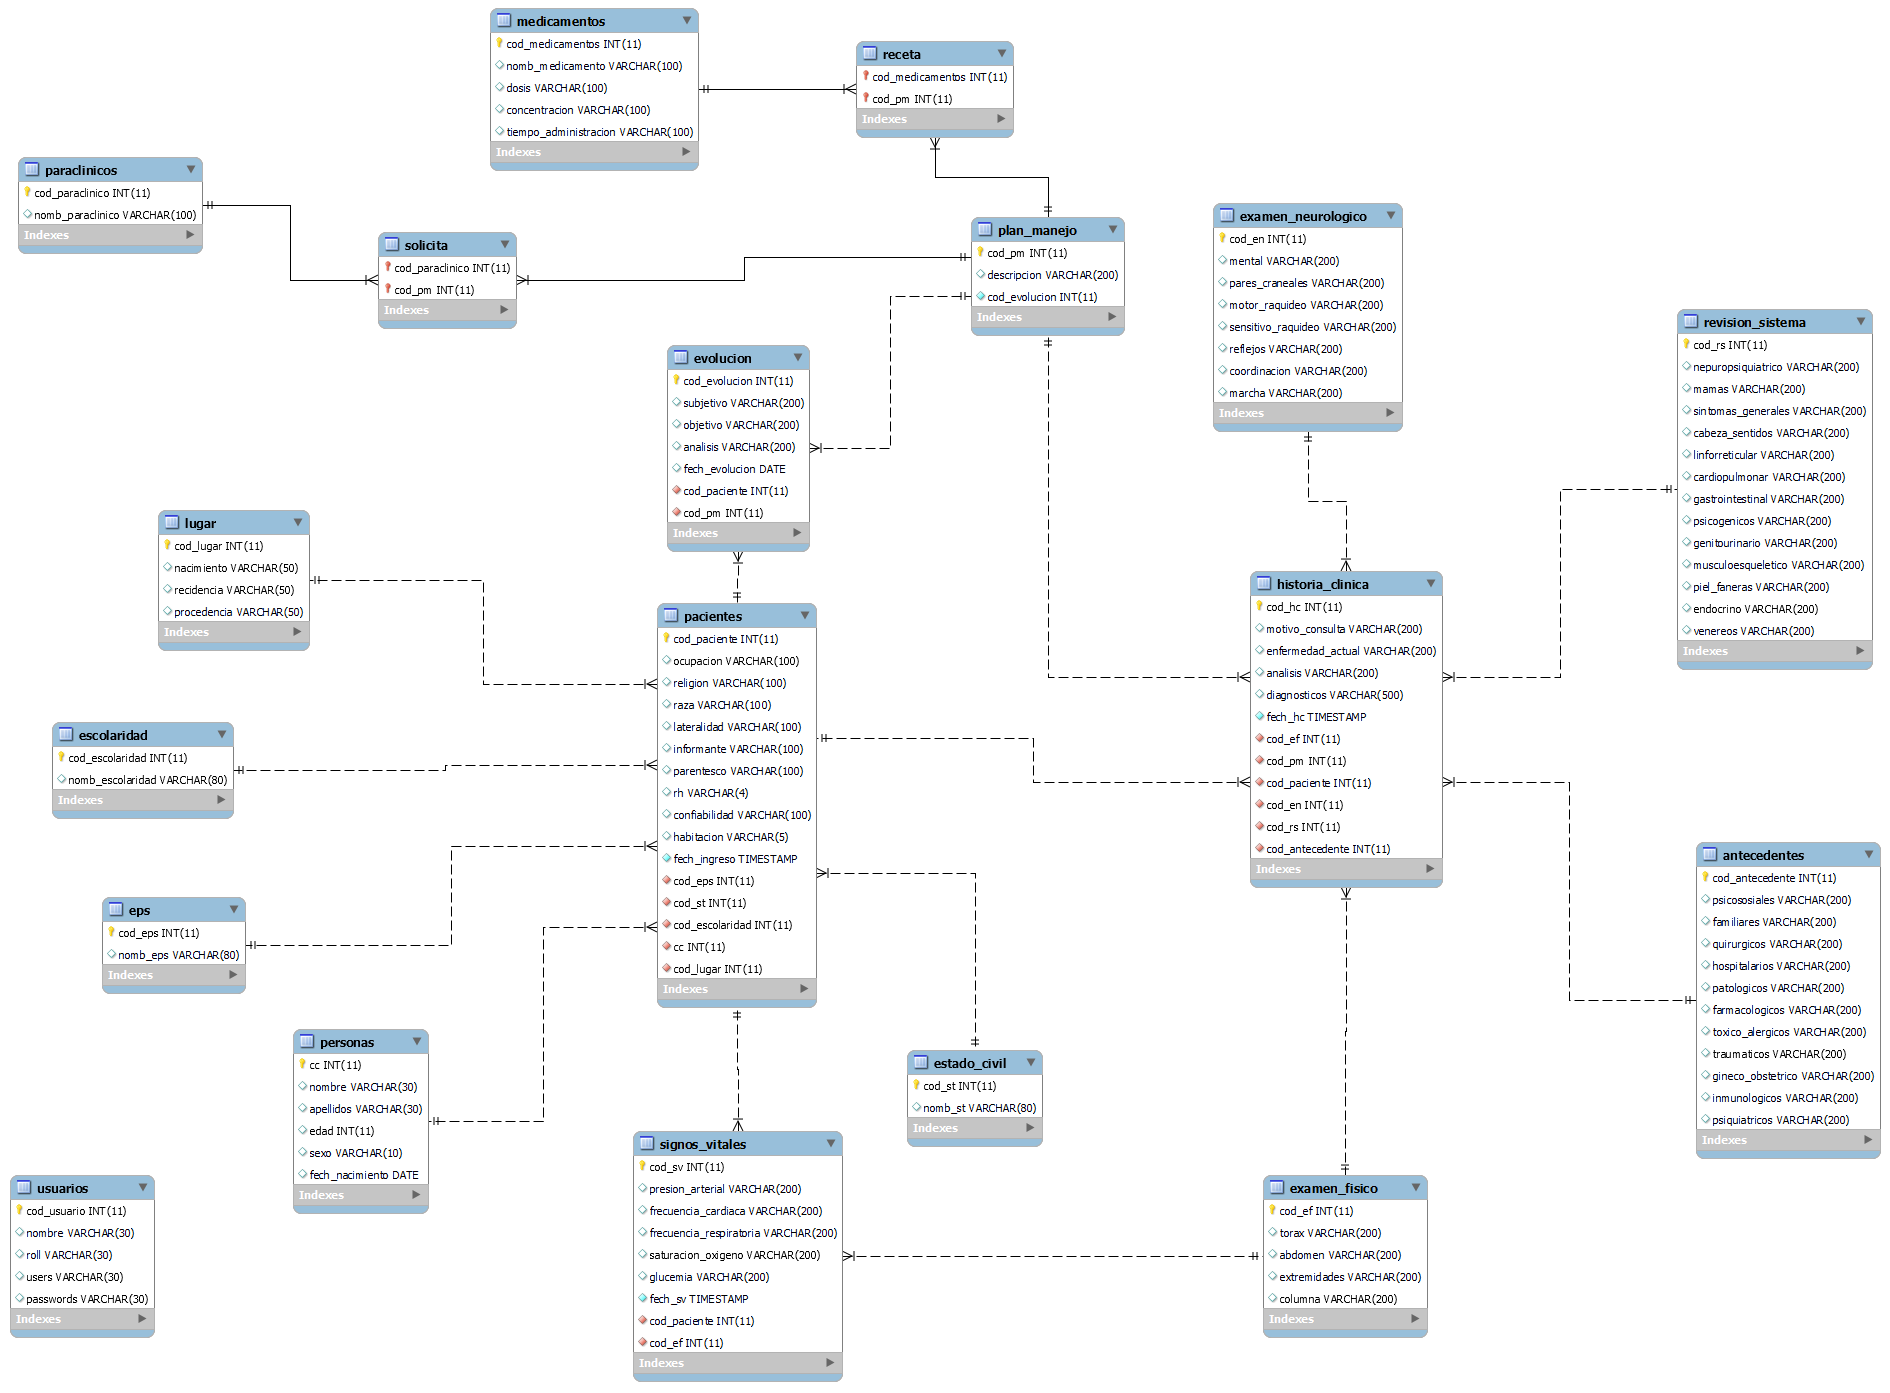
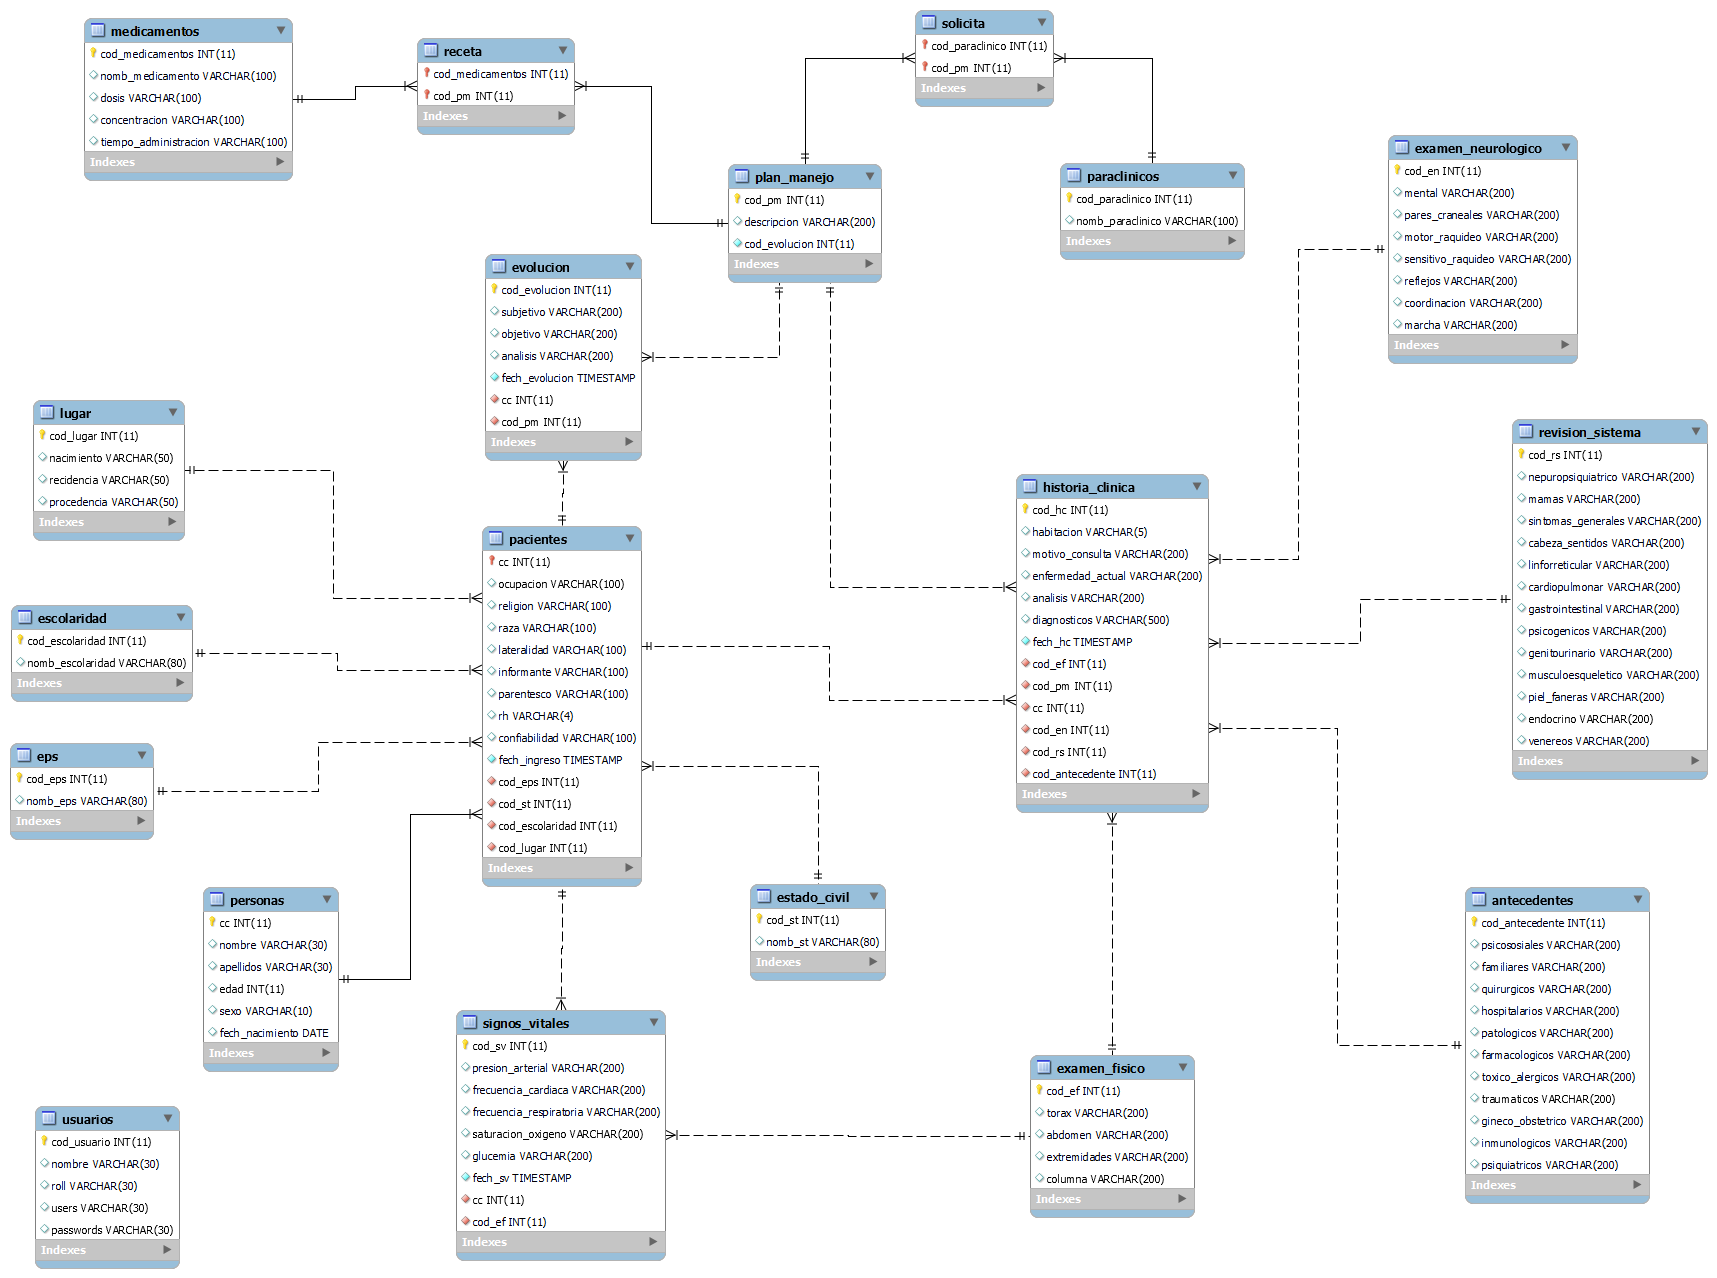
Model Update

diff --git a/Backend/src/main/java/com/medical/soft/persistence/entity/Paciente.java b/Backend/src/main/java/com/medical/soft/persistence/entity/Paciente.java
@@ -10,9 +10,7 @@ import java.util.List;
 public class Paciente {
 
     @Id
-    @GeneratedValue(strategy = GenerationType.IDENTITY)
-    @Column(name = "cod_paciente")
-    private Integer codPaciente;
+    private Integer cc;
 
     // Foreign keys
     @Column(name = "cod_eps")
@@ -21,7 +19,6 @@ public class Paciente {
     private Integer codST;
     @Column(name = "cod_escolaridad")
     private Integer codEscolaridad;
-    private Integer cc;
     @Column(name = "cod_lugar")
     private Integer codLugar;
 
@@ -34,7 +31,6 @@ public class Paciente {
     private String parentesco;
     private String rh;
     private String confiabilidad;
-    private String habitacion;
 
     // LocalDateTime is type data for date and hours
     @Column(name = "fech_ingreso")
@@ -49,7 +45,7 @@ public class Paciente {
     @JoinColumn(name = "cod_escolaridad", insertable = false, updatable = false)
     private Escolaridad escolaridad;
 
-    @ManyToOne
+    @OneToOne
     @JoinColumn(name = "cc", insertable = false, updatable = false)
     private Persona persona;
 
@@ -151,14 +147,6 @@ public class Paciente {
         this.historiasClinicas = historiasClinicas;
     }
 
-    public Integer getCodPaciente() {
-        return codPaciente;
-    }
-
-    public void setCodPaciente(Integer codPaciente) {
-        this.codPaciente = codPaciente;
-    }
-
     public Integer getCodST() {
         return codST;
     }
@@ -247,13 +235,6 @@ public class Paciente {
         this.confiabilidad = confiabilidad;
     }
 
-    public String getHabitacion() {
-        return habitacion;
-    }
-
-    public void setHabitacion(String habitacion) {
-        this.habitacion = habitacion;
-    }
 
     public LocalDateTime getFechIngreso() {
         return fechIngreso;

diff --git a/Backend/src/main/java/com/medical/soft/persistence/entity/HistoriaClinica.java b/Backend/src/main/java/com/medical/soft/persistence/entity/HistoriaClinica.java
@@ -17,8 +17,7 @@ public class HistoriaClinica {
     private Integer codEF;
     @Column(name = "cod_pm")
     private Integer codPM;
-    @Column(name = "cod_paciente")
-    private Integer codPaciente;
+    private Integer cc;
     @Column(name = "cod_en")
     private Integer codEN;
     @Column(name = "cod_rs")
@@ -27,6 +26,7 @@ public class HistoriaClinica {
     private Integer codAntecedente;
 
     // Attributes
+    private String habitacion;
     @Column(name = "motivo_consulta")
     private String motivoConsulta;
     @Column(name = "enfermedad_actual")
@@ -42,7 +42,7 @@ public class HistoriaClinica {
     private PlanManejo planManejo;
 
     @ManyToOne
-    @JoinColumn(name = "cod_paciente", insertable = false, updatable = false)
+    @JoinColumn(name = "cc", insertable = false, updatable = false)
     private Paciente paciente;
 
     @ManyToOne
@@ -62,6 +62,22 @@ public class HistoriaClinica {
     private ExamenNeurologico examenNeurologico;
 
     // Methods
+    public Integer getCc() {
+        return cc;
+    }
+
+    public void setCc(Integer cc) {
+        this.cc = cc;
+    }
+
+    public String getHabitacion() {
+        return habitacion;
+    }
+
+    public void setHabitacion(String habitacion) {
+        this.habitacion = habitacion;
+    }
+
     public PlanManejo getPlanManejo() {
         return planManejo;
     }
@@ -132,14 +148,6 @@ public class HistoriaClinica {
 
     public void setCodPM(Integer codPM) {
         this.codPM = codPM;
-    }
-
-    public Integer getCodPaciente() {
-        return codPaciente;
-    }
-
-    public void setCodPaciente(Integer codPaciente) {
-        this.codPaciente = codPaciente;
     }
 
     public Integer getCodEN() {

diff --git a/Backend/src/main/java/com/medical/soft/persistence/entity/SignosVitales.java b/Backend/src/main/java/com/medical/soft/persistence/entity/SignosVitales.java
@@ -14,8 +14,7 @@ public class SignosVitales {
     private Integer codSV;
 
     // Foreign keys
-    @Column(name = "cod_paciente")
-    private Integer codPaciente;
+    private Integer cc;
     @Column(name = "cod_ef")
     private Integer codEF;
 
@@ -34,7 +33,7 @@ public class SignosVitales {
 
     // Relationships
     @ManyToOne
-    @JoinColumn(name = "cod_paciente", insertable = false, updatable = false)
+    @JoinColumn(name = "cc", insertable = false, updatable = false)
     private Paciente paciente;
 
     @ManyToOne
@@ -42,6 +41,14 @@ public class SignosVitales {
     private ExamenFisico examenFisico;
 
     // Methods
+    public Integer getCc() {
+        return cc;
+    }
+
+    public void setCc(Integer cc) {
+        this.cc = cc;
+    }
+
     public ExamenFisico getExamenFisico() {
         return examenFisico;
     }
@@ -68,14 +75,6 @@ public class SignosVitales {
 
     public void setCodSV(Integer codSV) {
         this.codSV = codSV;
-    }
-
-    public Integer getCodPaciente() {
-        return codPaciente;
-    }
-
-    public void setCodPaciente(Integer codPaciente) {
-        this.codPaciente = codPaciente;
     }
 
     public String getPresionArterial() {

diff --git a/Backend/src/main/java/com/medical/soft/persistence/entity/Evolucion.java b/Backend/src/main/java/com/medical/soft/persistence/entity/Evolucion.java
@@ -13,8 +13,7 @@ public class Evolucion {
     private Integer codEvolucion;
 
     // Foraign keys
-    @Column(name = "cod_paciente")
-    private Integer codPaciente;
+    private Integer cc;
     @Column(name = "cod_pm")
     private Integer codPM;
 
@@ -29,7 +28,7 @@ public class Evolucion {
 
     // Relationships
     @ManyToOne
-    @JoinColumn(name = "cod_paciente", insertable = false, updatable = false)
+    @JoinColumn(name = "cc", insertable = false, updatable = false)
     private Paciente paciente;
 
     @ManyToOne
@@ -37,6 +36,14 @@ public class Evolucion {
     private PlanManejo planManejo;
 
     // Methods
+    public Integer getCc() {
+        return cc;
+    }
+
+    public void setCc(Integer cc) {
+        this.cc = cc;
+    }
+
     public Paciente getPaciente() {
         return paciente;
     }
@@ -59,14 +66,6 @@ public class Evolucion {
 
     public void setCodEvolucion(Integer codEvolucion) {
         this.codEvolucion = codEvolucion;
-    }
-
-    public Integer getCodPaciente() {
-        return codPaciente;
-    }
-
-    public void setCodPaciente(Integer codPaciente) {
-        this.codPaciente = codPaciente;
     }
 
     public Integer getCodPM() {

diff --git a/Backend/src/main/java/com/medical/soft/persistence/mapper/ClinicHistoryMapper.java b/Backend/src/main/java/com/medical/soft/persistence/mapper/ClinicHistoryMapper.java
@@ -18,6 +18,7 @@ import org.mapstruct.Mappings;
 public interface ClinicHistoryMapper {
     @Mappings({
             @Mapping(source = "codHC", target = "clinicalHistoryId"),
+            @Mapping(source = "habitacion", target = "room"),
             @Mapping(source = "motivoConsulta", target = "reasonConsultation"),
             @Mapping(source = "enfermedadActual", target = "currentIllness"),
             @Mapping(source = "analisis", target = "analysis"),
@@ -25,7 +26,7 @@ public interface ClinicHistoryMapper {
             @Mapping(source = "fechHC", target = "clinicalHistoryDate"),
             @Mapping(source = "codEF", target = "physicalExamId"),
             @Mapping(source = "codPM", target = "managementPlanId"),
-            @Mapping(source = "codPaciente", target = "patientId"),
+            @Mapping(source = "cc", target = "patientId"),
             @Mapping(source = "codEN", target = "neurologicalExamId"),
             @Mapping(source = "codRS", target = "systemReviewId"),
             @Mapping(source = "codAntecedente", target = "backgroundId"),

diff --git a/Backend/src/main/java/com/medical/soft/persistence/mapper/PatientMapper.java b/Backend/src/main/java/com/medical/soft/persistence/mapper/PatientMapper.java
@@ -14,7 +14,7 @@ import org.mapstruct.Mappings;
         HpeMapper.class})
 public interface PatientMapper {
     @Mappings({
-            @Mapping(source = "codPaciente", target = "patientId"),
+            @Mapping(source = "cc", target = "patientId"),
             @Mapping(source = "ocupacion", target = "occupation"),
             @Mapping(source = "religion", target = "religion"),
             @Mapping(source = "raza", target = "race"),
@@ -23,7 +23,6 @@ public interface PatientMapper {
             @Mapping(source = "parentesco", target = "relationship"),
             @Mapping(source = "rh", target = "rh"),
             @Mapping(source = "confiabilidad", target = "reliability"),
-            @Mapping(source = "habitacion", target = "room"),
             @Mapping(source = "fechIngreso", target = "admissionDate"),
             @Mapping(source = "persona", target = "person"),
             @Mapping(source = "codEPS", target = "hpeId"),

diff --git a/Backend/src/main/java/com/medical/soft/persistence/mapper/VitalSignsMapper.java b/Backend/src/main/java/com/medical/soft/persistence/mapper/VitalSignsMapper.java
@@ -21,7 +21,7 @@ public interface VitalSignsMapper {
             @Mapping(source = "saturacionOxigeno", target = "oxygenSaturation"),
             @Mapping(source = "glusemia", target = "bloodGlucose"),
             @Mapping(source = "fechSV", target = "vitalSignsDate"),
-            @Mapping(source = "codPaciente", target = "patientId"),
+            @Mapping(source = "cc", target = "patientId"),
             @Mapping(source = "codEF", target = "physicalExamId"),
             @Mapping(source = "paciente", target = "patient"),
             @Mapping(source = "examenFisico", target = "physicalExam")

diff --git a/Backend/src/main/java/com/medical/soft/domain/ClinicHistory.java b/Backend/src/main/java/com/medical/soft/domain/ClinicHistory.java
@@ -4,6 +4,7 @@ import java.time.LocalDateTime;
 
 public class ClinicHistory {
     private int clinicalHistoryId;
+    private String room;
     private String reasonConsultation;
     private String currentIllness;
     private String analysis;
@@ -24,6 +25,13 @@ public class ClinicHistory {
     private Patient patient;
     private PhysicalExam physicalExam;
 
+    public String getRoom() {
+        return room;
+    }
+
+    public void setRoom(String room) {
+        this.room = room;
+    }
 
     public PhysicalExam getPhysicalExam() {
         return physicalExam;

diff --git a/Backend/src/main/java/com/medical/soft/domain/Patient.java b/Backend/src/main/java/com/medical/soft/domain/Patient.java
@@ -12,7 +12,6 @@ public class Patient {
     private String relationship;
     private String rh;
     private String reliability;
-    private String room;
     private LocalDateTime admissionDate;
 
     private int hpeId;
@@ -98,14 +97,6 @@ public class Patient {
 
     public void setReliability(String reliability) {
         this.reliability = reliability;
-    }
-
-    public String getRoom() {
-        return room;
-    }
-
-    public void setRoom(String room) {
-        this.room = room;
     }
 
     public LocalDateTime getAdmissionDate() {

diff --git a/Backend/src/main/java/com/medical/soft/persistence/entity/Persona.java b/Backend/src/main/java/com/medical/soft/persistence/entity/Persona.java
@@ -19,15 +19,17 @@ public class Persona {
     private LocalDate fechNacimiento;
 
     // Relationships
-    @OneToMany(mappedBy = "persona")
-    private List<Paciente> pacientes;
+    @OneToOne(mappedBy = "persona")
+    private Paciente pacientes;
 
     // Methods
-    public List<Paciente> getPacientes() {
+
+
+    public Paciente getPacientes() {
         return pacientes;
     }
 
-    public void setPacientes(List<Paciente> pacientes) {
+    public void setPacientes(Paciente pacientes) {
         this.pacientes = pacientes;
     }
 

diff --git a/Backend/src/main/java/com/medical/soft/persistence/SignosVitalesRepository.java b/Backend/src/main/java/com/medical/soft/persistence/SignosVitalesRepository.java
@@ -20,7 +20,7 @@ public class SignosVitalesRepository implements VitalSignsRepository {
 
     @Override
     public List<VitalSigns> getVitalSigns(int patientId) {
-        List<SignosVitales> signosVitales = signosVitalesCrudRepository.findByCodPacienteOrderByFechSVDesc(patientId);
+        List<SignosVitales> signosVitales = signosVitalesCrudRepository.findByCcOrderByFechSVDesc(patientId);
         return mapper.toVitalSigns(signosVitales);
     }
 

diff --git a/Backend/src/main/java/com/medical/soft/persistence/crud/SignosVitalesCrudRepository.java b/Backend/src/main/java/com/medical/soft/persistence/crud/SignosVitalesCrudRepository.java
@@ -6,5 +6,5 @@ import org.springframework.data.repository.CrudRepository;
 import java.util.List;
 
 public interface SignosVitalesCrudRepository extends CrudRepository<SignosVitales, Integer> {
-    List<SignosVitales> findByCodPacienteOrderByFechSVDesc(int codPaciente);
+    List<SignosVitales> findByCcOrderByFechSVDesc(int cc);
 }
